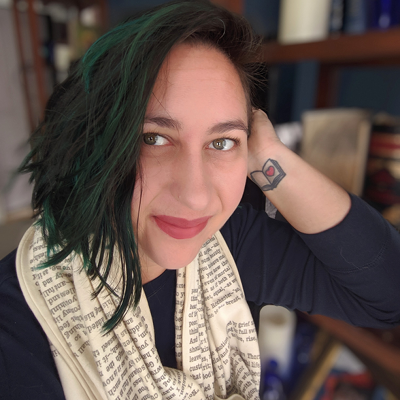
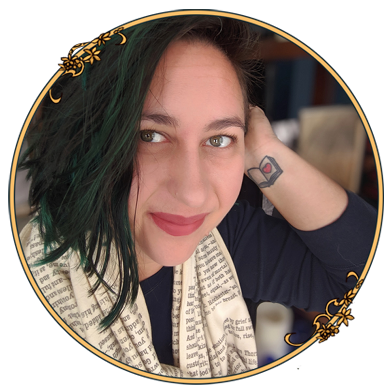
updating profile images

diff --git a/pages/03.team/_michael/about.md b/pages/03.team/_michael/about.md
@@ -4,7 +4,7 @@ body_classes: modular
 editor_name: 'Michael Tizzano'
 editor_title: Copyeditor
 profile_image:
-    src: Book_Light_Editorial_Michael_Tizzano.jpg
+    src: Book_Light_Editorial_Michael_Tizzano.png
     alt_text: 'Michael Tizzano'
 ---
 

diff --git a/pages/03.team/_laura/about.md b/pages/03.team/_laura/about.md
@@ -1,6 +1,6 @@
 ---
 profile_image:
-    src: Book_Light_Editorial_Laura_Dennison.jpg
+    src: Book_Light_Editorial_Laura_Dennison.png
     alt_text: 'Laura Dennison'
 editor_name: 'Laura Dennison'
 editor_title: Copyeditor
